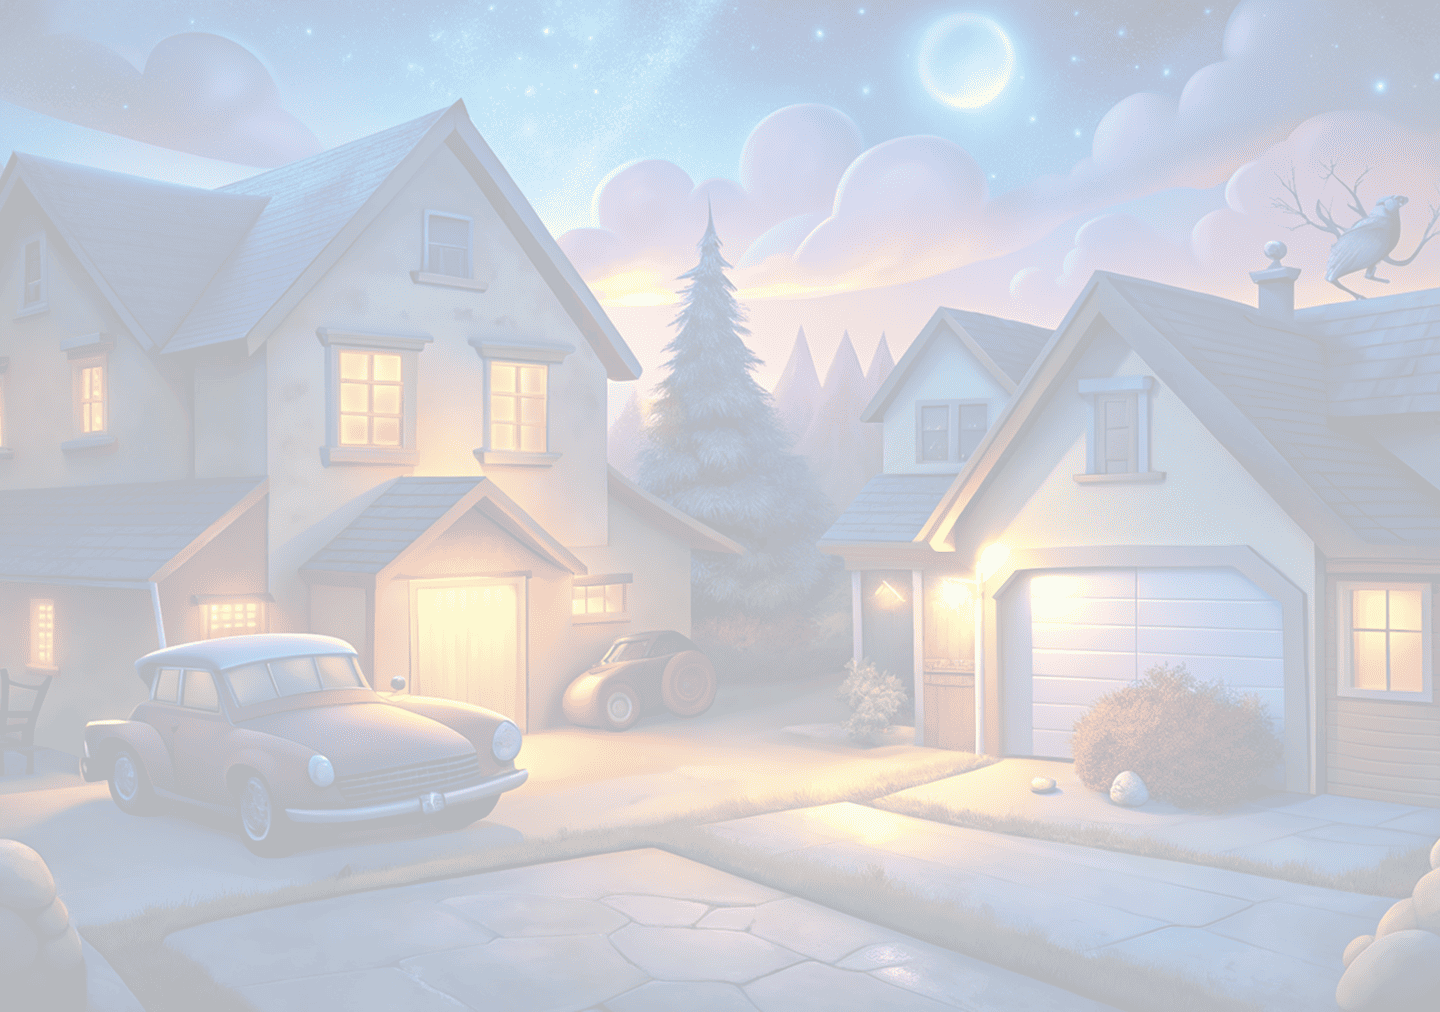
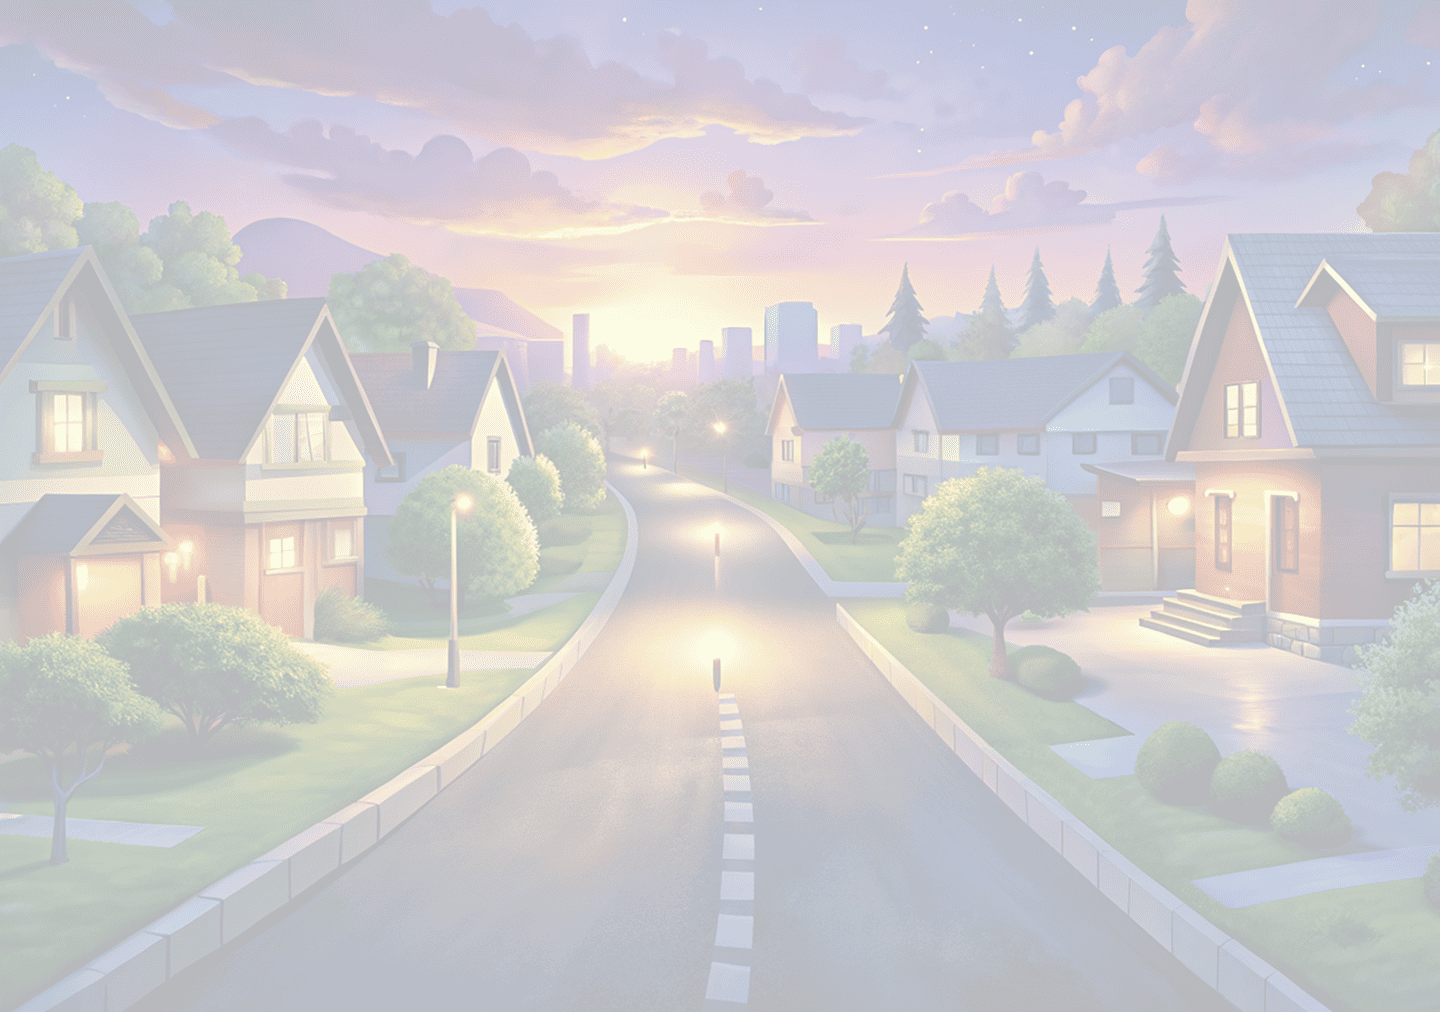
projects

diff --git a/section/portfolio.tsx b/section/portfolio.tsx
@@ -45,7 +45,7 @@ export default function PortfolioSection() {
               }}
               className="flex flex-1/2 justify-center items-center rotate-6 md:py-20 py-5 md:ml-10"
             >
-              <Slider Before="/Before.webp" After="/After.webp" />
+              <Slider Before="/BeforeKitchen.webp" After="/AfterKitchen.webp" />
             </motion.div>
           </div>
           {/* Container with compare sliders 2 and 3 */}
@@ -65,11 +65,17 @@ export default function PortfolioSection() {
           >
             {/* Slider 2 */}
             <div className="flex flex-1/2 justify-center -rotate-8 items-center md:mr-10 py-15">
-              <Slider Before="/Before.webp" After="/After.webp" />
+              <Slider
+                Before="/BeforeLivingroom.webp"
+                After="/AfterLivingroom.webp"
+              />
             </div>
             {/* Slider 3 */}
             <div className="flex flex-1/2 justify-center -rotate-3 items-center md:ml-10">
-              <Slider Before="/Before.webp" After="/After.webp" />
+              <Slider
+                Before="/BeforeBathroom.webp"
+                After="/AfterBathroom.webp"
+              />
             </div>
           </motion.div>
         </div>

diff --git a/app/theme.ts b/app/theme.ts
@@ -36,7 +36,7 @@ export const theme = createTheme({
       styleOverrides: {
         root: {
           fontSize: "18px",
-          color: "#fdfdfd",
+          color: "#fff",
           textAlign: "left",
           transformOrigin: "left",
           "&.Mui-focused": {
@@ -66,16 +66,16 @@ export const theme = createTheme({
           borderRadius: "30px",
           "& fieldset": {
             borderRadius: "30px",
-            borderColor: "#F88944",
+            borderColor: "#fff",
             borderWidth: "2px",
             transition: "border-color 0.2s ease-in-out",
           },
 
           "&:hover fieldset": {
-            borderColor: "#fff !important",
+            borderColor: "#F88944 !important",
           },
           "&.Mui-focused fieldset": {
-            borderColor: "#fff !important",
+            borderColor: "#F88944 !important",
             borderWidth: "2px",
           },
           "& label": {
@@ -93,7 +93,7 @@ export const theme = createTheme({
 
         input: {
           fontSize: "1.25rem",
-          color: "#fdfdfd",
+          color: "#fff",
           padding: "14px 1rem",
           textAlign: "left",
         },

diff --git a/components/NavbarMenu/navbar.tsx b/components/NavbarMenu/navbar.tsx
@@ -29,7 +29,7 @@ const navbar = () => {
           ))}
       </ul>
       {/* Appointment button */}
-      <div className="hidden lg:flex items-center mr-2">
+      <div className="hidden lg:flex items-center mr-[5px]">
         <AppointmentButton name="Book Appointment" />
       </div>
     </nav>

diff --git a/section/footer.tsx b/section/footer.tsx
@@ -114,7 +114,7 @@ export default function Footer() {
         </div>
         <div className="flex w-full h-auto justify-center md:justify-start">
           <div className="flex w-40 md:w-full h-auto flex-col md:flex-row justify-between items-start md:items-start p-adaptive-text">
-            <address className="flex text-white mb-3">
+            <address className="flex text-white not-italic mb-3">
               <span className="text-2xl text-[#F88944] mr-2">
                 <FaLocationDot />
               </span>

diff --git a/section/services.tsx b/section/services.tsx
@@ -97,7 +97,7 @@ export default function ServicesSection() {
                   <p className="flex w-full text-white">
                     {selectedData.description}
                   </p>
-                  <div className="flex w-full h-auto flex-wrap justify-between mt-2 gap-2">
+                  <div className="flex flex-col w-full h-auto flex-wrap justify-between mt-2 gap-2">
                     {selectedData.features.map((feature, index) => (
                       <p
                         key={index}